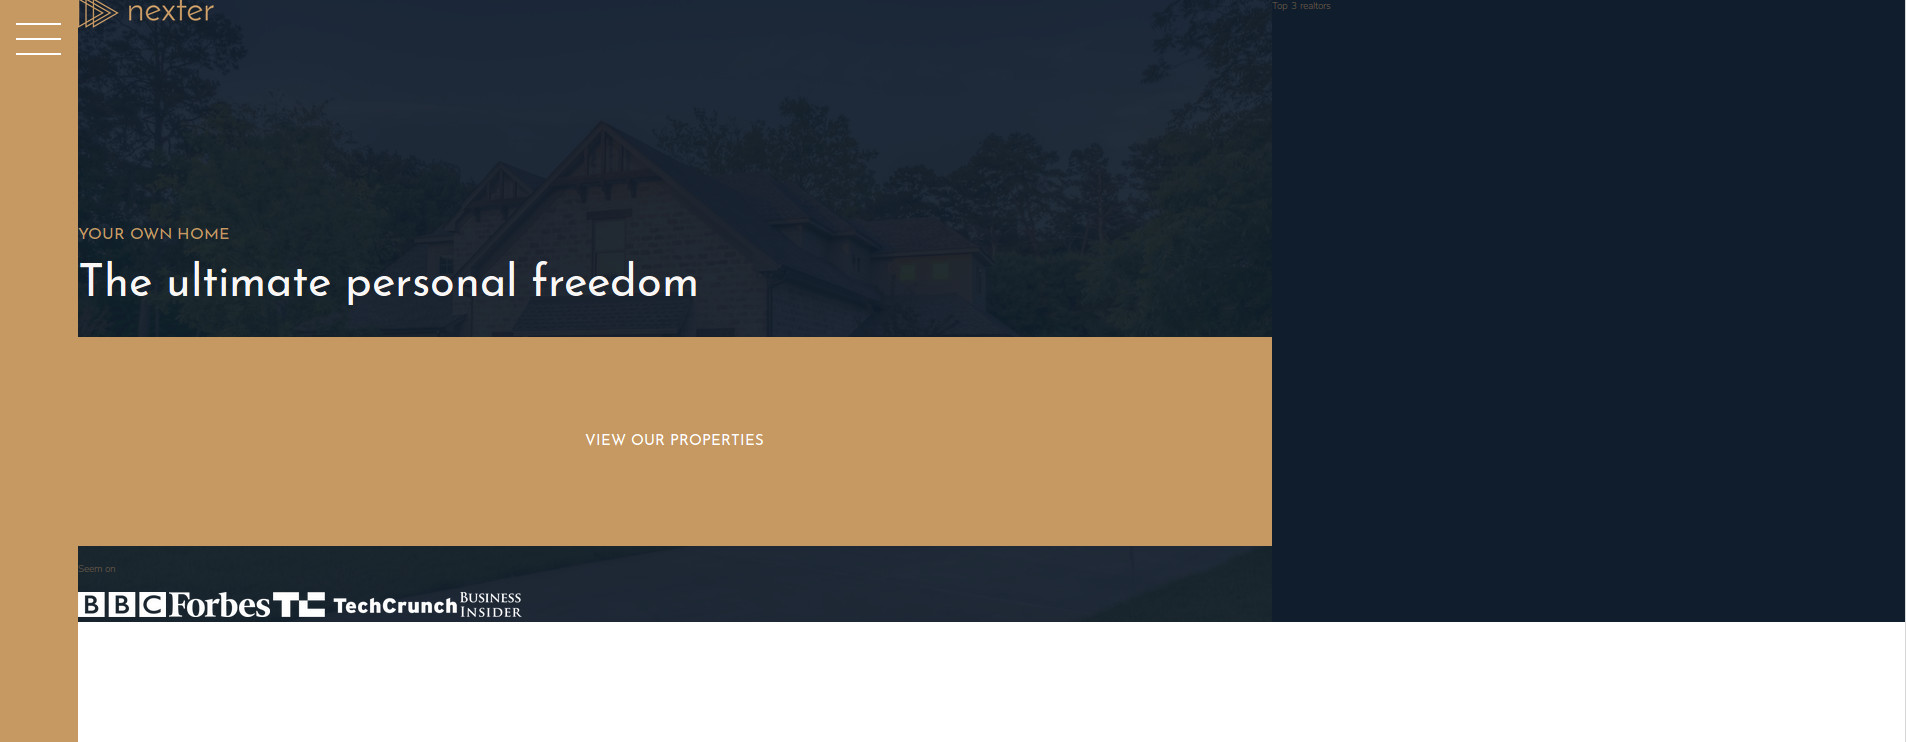
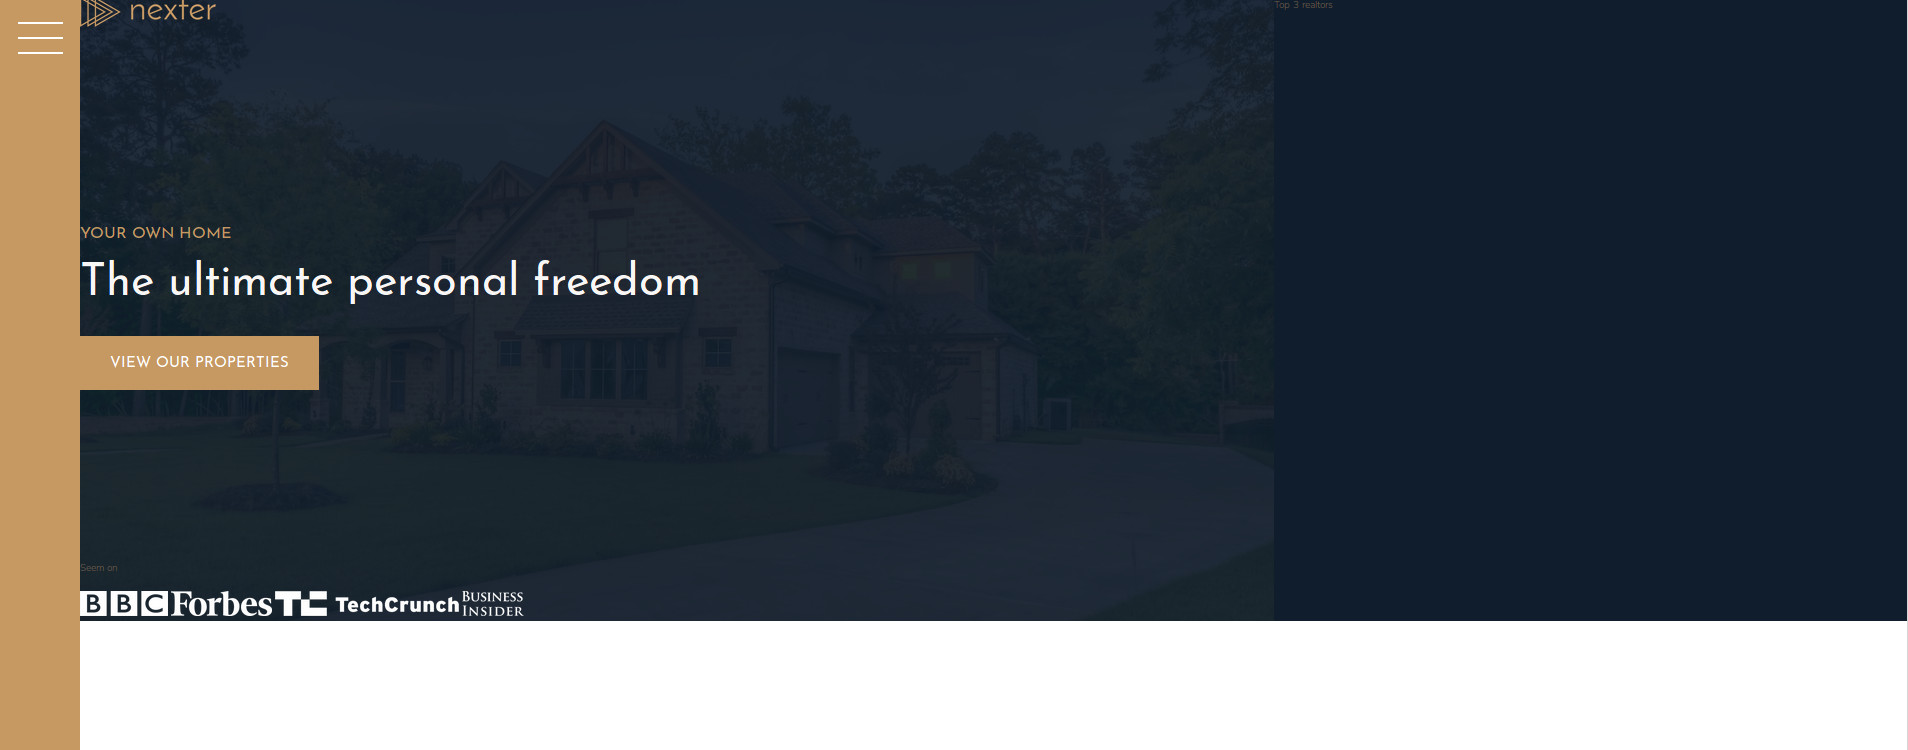
Force the button grid item not to stretch on the entire grid cell. Button is now at the start of the grid both horizontaly and verticaly.

diff --git a/index.html b/index.html
@@ -19,7 +19,7 @@
         <img src="img/logo.png" alt="Nexter logo" class="header__logo">
         <h3 class="heading-3">Your own home</h3>
         <h1 class="heading-1">The ultimate personal freedom</h1>
-        <button class="btn">View our properties</button>
+        <button class="btn header__btn">View our properties</button>
         <div class="header__seemon--text">Seem on</div>
         <div class="header__seemon--logos">
           <img src="img/logo-bbc.png" alt="Seem on logo 1">

diff --git a/sass/_header.scss b/sass/_header.scss
@@ -13,6 +13,11 @@
     height: 3rem;
   }
   
+  &__btn {
+    align-self: start;
+    justify-self: start;
+  }
+  
   &__seemon--text {
     
   }
